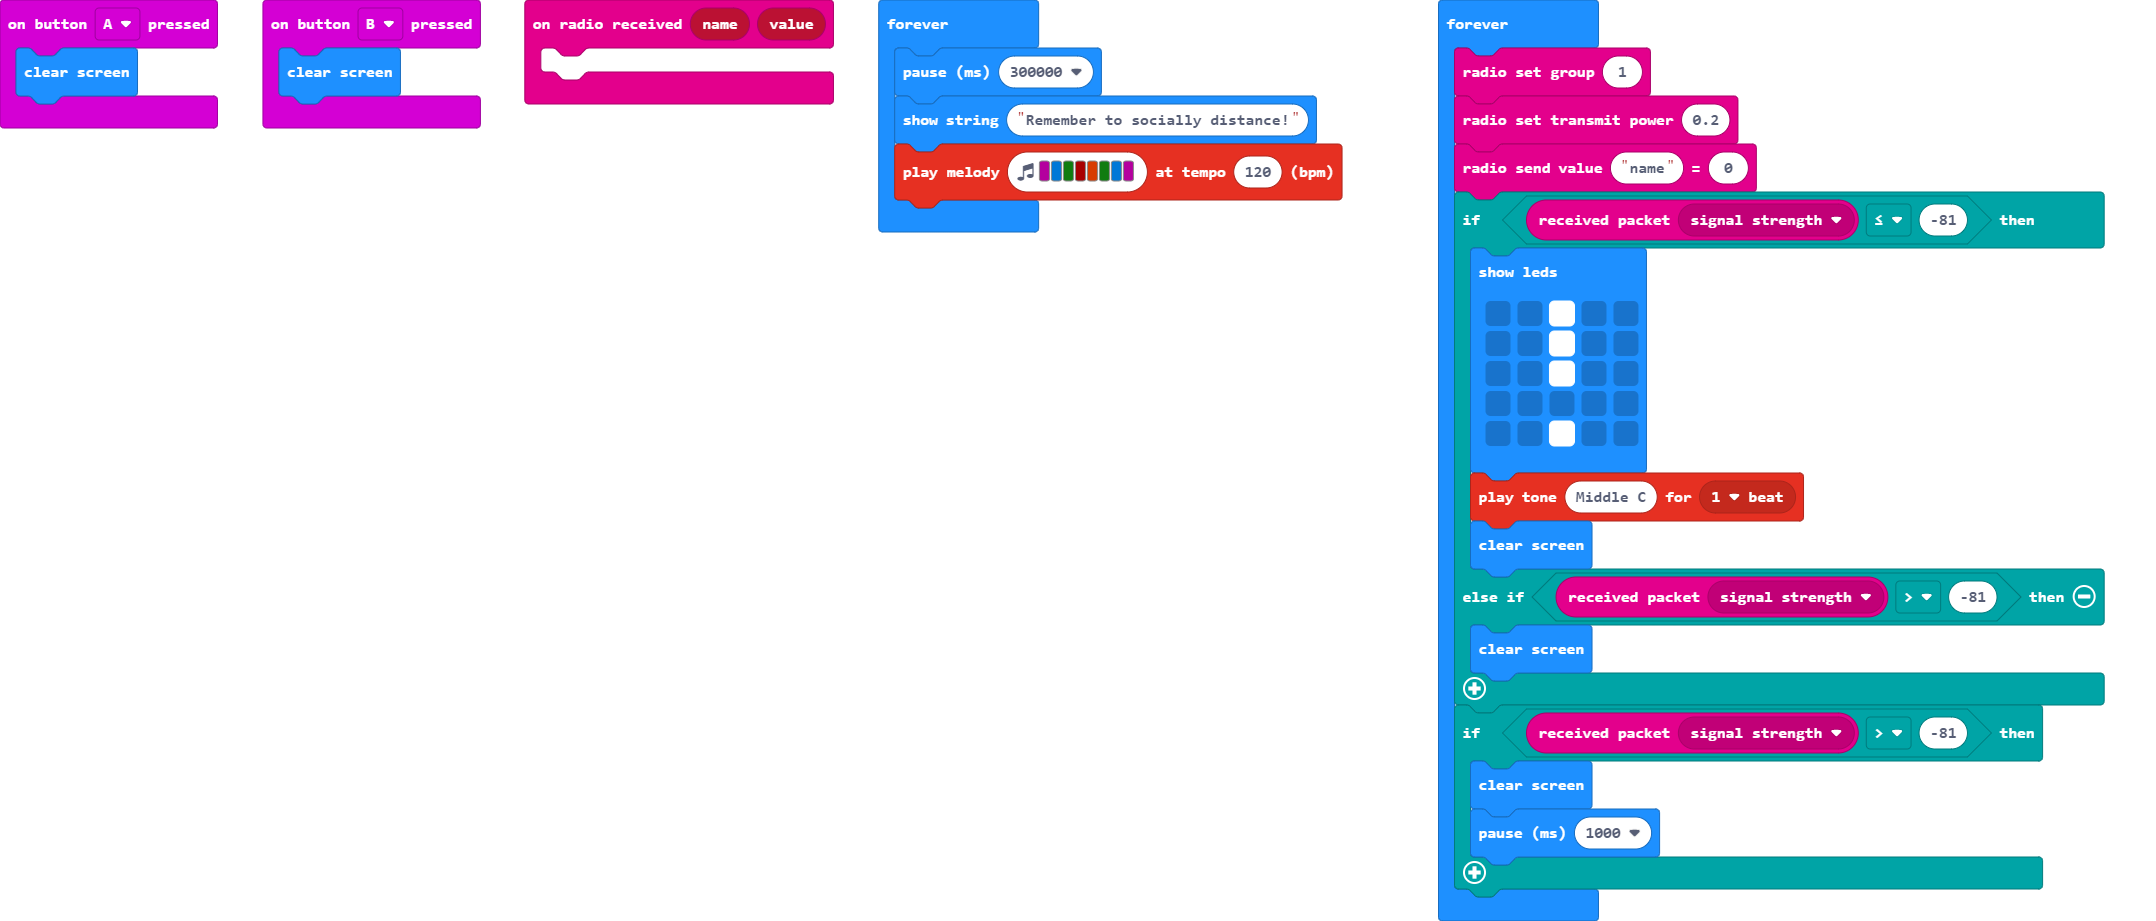
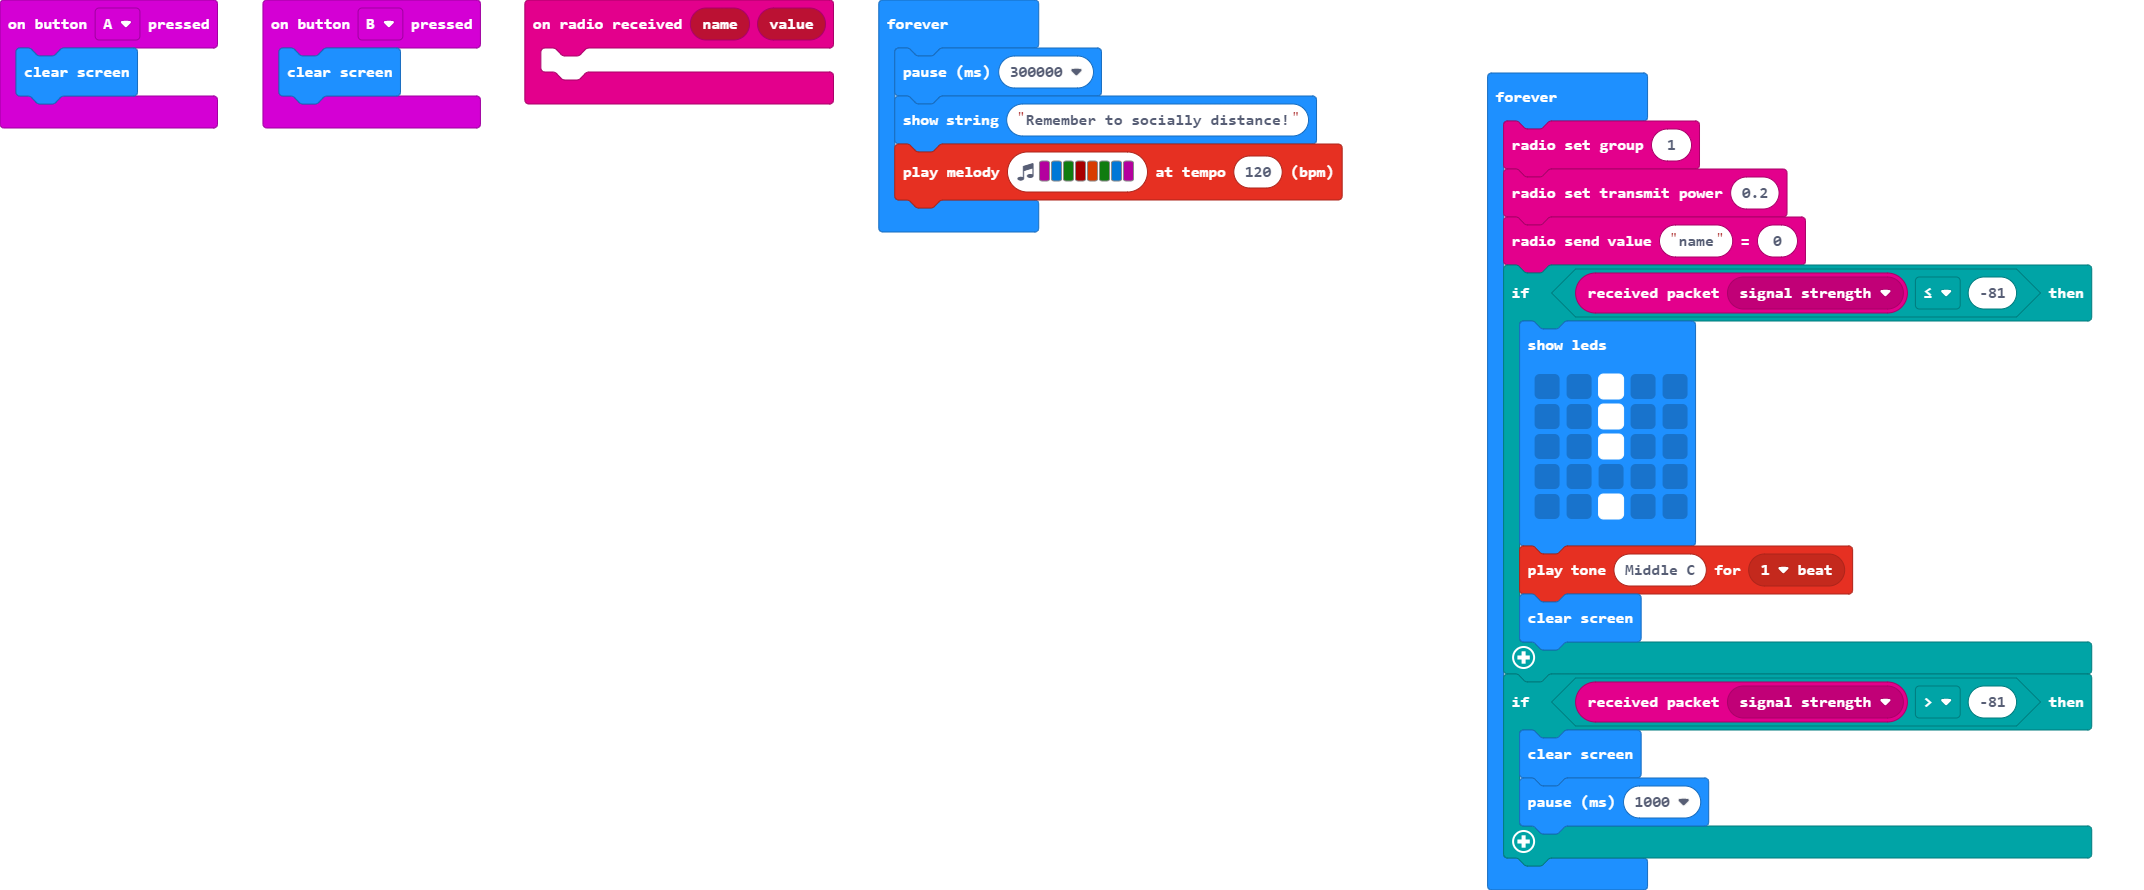
Update main.blocks, main.ts

Changed region(s): [[0.6562, 0.0, 1.0, 1.0], [0.0, 0.0, 0.625, 0.273]]

diff --git a/main.ts b/main.ts
@@ -26,8 +26,6 @@ basic.forever(function () {
             `)
         music.playTone(262, music.beat(BeatFraction.Whole))
         basic.clearScreen()
-    } else if (radio.receivedPacket(RadioPacketProperty.SignalStrength) > -81) {
-        basic.clearScreen()
     }
     if (radio.receivedPacket(RadioPacketProperty.SignalStrength) > -81) {
         basic.clearScreen()
